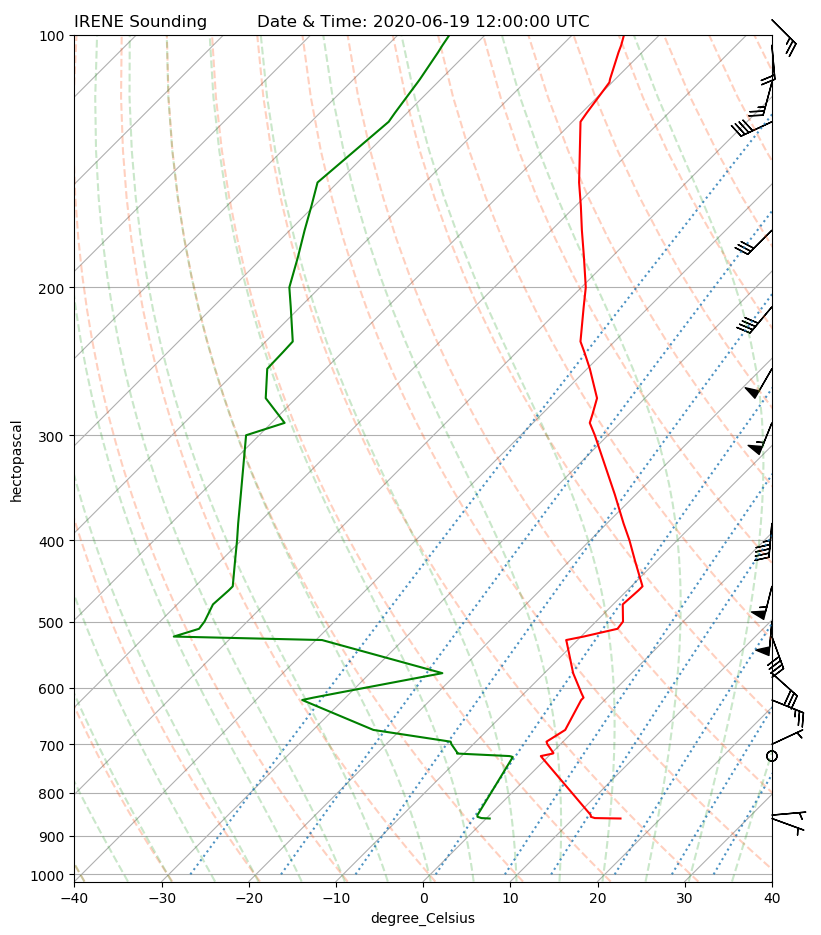
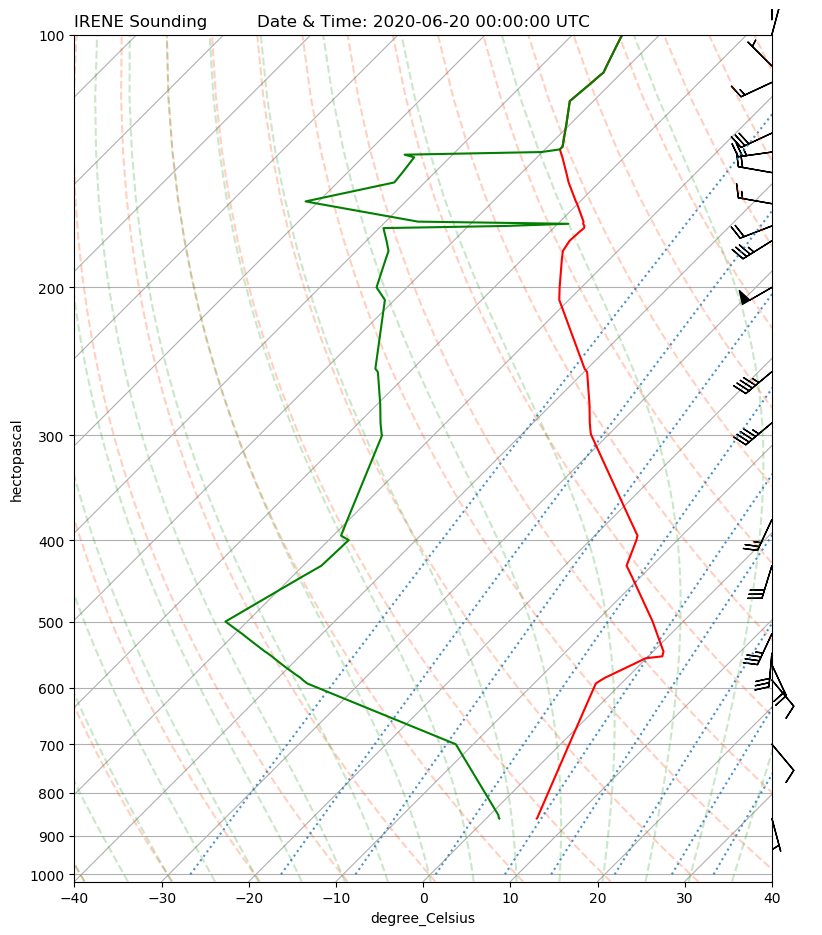
latest Irene sounding

diff --git a/sounding/Irene_real_time_Skew-T_Analysis.py b/sounding/Irene_real_time_Skew-T_Analysis.py
@@ -10,7 +10,7 @@ from siphon.simplewebservice.wyoming import WyomingUpperAir
 # Plan to soft code these variables in future updates, 
 
 # to make it easy to access any station in South Africa for any given time
-dt = datetime(2020, 6, 19, 12)
+dt = datetime(2020, 6, 20, 0)
 station = 'FAIR'
 
 # Grab remote data from server at the University of Wyoming. This requires internet connection.
